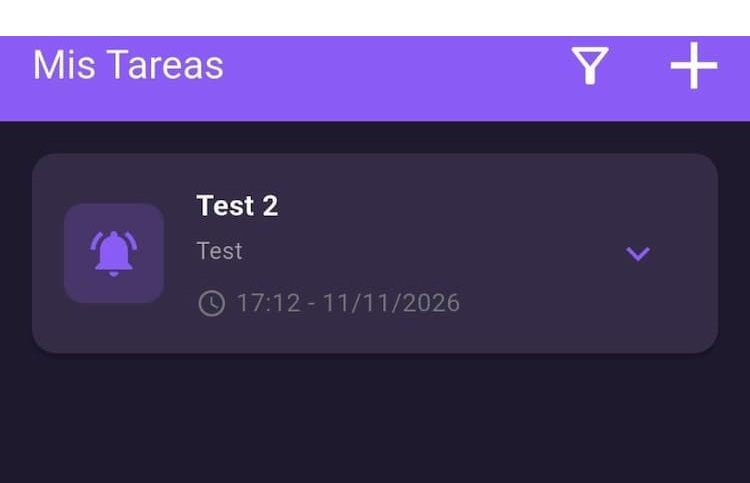
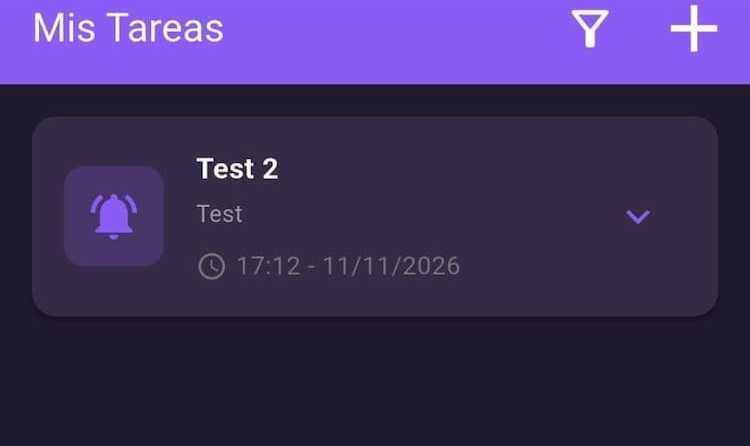
Improve mobile portfolio layouts
Refine responsive styles for narrow screens across the home, about, and projects pages. Simplify the brand label and refresh the Todo app preview image.

diff --git a/about/about.css b/about/about.css
@@ -1,3 +1,4 @@
 .about-page{padding:4.5rem 0 5.5rem}.about-hero{padding:0 0 3.5rem}.about-hero .eyebrow{margin-bottom:1rem}.about-hero h1{max-width:54rem;margin:0 0 1.25rem;font-size:clamp(3.5rem,8vw,6.4rem)}.about-lead{max-width:47rem;margin:0;color:var(--muted);font-size:1.12rem;line-height:1.8}.about-overview{display:grid;grid-template-columns:1.3fr .7fr;gap:clamp(2rem,7vw,6rem);padding:2.5rem 0;border-top:1px solid var(--line);border-bottom:1px solid var(--line)}.about-overview>div>p:not(.eyebrow){max-width:45rem;margin:0;color:var(--muted);font-size:1rem;line-height:1.85}.about-overview>div>p+p{margin-top:1rem}.about-facts{display:grid;align-content:start;gap:1.2rem;margin:0}.about-facts>div{padding-bottom:1rem;border-bottom:1px solid rgba(255,255,255,.16)}.about-facts dt{margin-bottom:.35rem;color:var(--subtle);font:500 .68rem 'DM Mono',monospace;text-transform:uppercase;letter-spacing:.08em}.about-facts dd{margin:0;color:var(--text);font-size:.94rem;line-height:1.6}.about-facts a{color:var(--violet)}.about-contact{display:flex;justify-content:space-between;align-items:center;gap:2rem;margin-top:2.5rem;padding:1.8rem 2rem;border:1px solid rgba(255,255,255,.3);border-radius:1.5rem;background:linear-gradient(135deg,rgba(255,255,255,.16),rgba(255,255,255,.05) 55%,rgba(151,178,255,.1));backdrop-filter:blur(30px) saturate(170%);-webkit-backdrop-filter:blur(30px) saturate(170%);box-shadow:inset 0 1px rgba(255,255,255,.42),0 1rem 3rem rgba(5,8,25,.18)}.about-contact .eyebrow{margin-bottom:.65rem}.about-contact h2{margin:0 0 .55rem;font-size:clamp(1.6rem,3vw,2.25rem);line-height:1.15;letter-spacing:-.06em}.about-email{color:var(--muted);font-size:.96rem}.about-email span{color:var(--violet)}.about-contact .button{flex:none}
 @media(max-width:700px){.about-page{padding:3.5rem 0 4.5rem}.about-hero{padding-bottom:2.5rem}.about-hero h1{font-size:clamp(3.1rem,12vw,4.8rem)}.about-lead{font-size:1rem}.about-overview{grid-template-columns:1fr;gap:2rem;padding:1.8rem 0}.about-facts{grid-template-columns:1fr 1fr;gap:1rem}.about-facts>div:last-child{grid-column:1/-1}.about-contact{align-items:flex-start;flex-direction:column;margin-top:2rem;padding:1.4rem;border-radius:1.3rem}.about-contact .button{margin-top:.25rem}}
 @media(max-width:380px){.about-hero h1{font-size:2.8rem}.about-facts{grid-template-columns:1fr}.about-facts>div:last-child{grid-column:auto}}
+@media(max-width:480px){.about-hero h1{font-size:clamp(2.75rem,13vw,4rem)}.about-contact{gap:1rem;padding:1.1rem}.about-email{overflow-wrap:anywhere}}

diff --git a/styles.css b/styles.css
@@ -20,3 +20,7 @@
 @media(max-width:700px){.hero-art{display:none}}
 .project-info h3{margin-top:.1rem}.site-nav,.eyebrow,.hero-intro,.button,.text-link,.project-number,.project-description,.project-meta,.site-footer{font-size:calc(1em + 1px)}.brand{font-size:1rem}.project-info h3{font-size:2.4rem}
 .site-footer{font-size:.72rem!important}
+/* Keep every navigation item available while making the header fit narrow phones. */
+@media(max-width:700px){.page-shell{width:min(calc(100% - 2rem),40rem)}.site-header{gap:.55rem}.brand{flex:0 0 auto;white-space:nowrap}.site-nav{flex:0 1 auto;justify-content:flex-end;gap:clamp(.35rem,2vw,.75rem);font-size:clamp(.62rem,2.3vw,.72rem)}.site-nav .nav-link{white-space:nowrap}.nav-link--github{display:inline-flex}.hero-actions{flex-wrap:wrap;row-gap:.8rem}.section-heading{gap:1rem}.site-footer{align-items:flex-start}}
+@media(max-width:480px){.page-shell{width:calc(100% - 1.25rem)}.site-header{height:auto;min-height:3.8rem;padding:.55rem .6rem;border-radius:1.15rem}.site-nav{gap:.38rem;font-size:.7rem}.hero{min-height:0;padding-top:3.5rem}.hero h1{font-size:clamp(2.85rem,13.5vw,4.1rem)}.hero-intro{font-size:1rem;line-height:1.7}.hero-actions{gap:.9rem}.work-section{padding:2.8rem 0 4rem}.section-heading h2{font-size:clamp(2.4rem,11vw,3.6rem)}.project-card--home .project-preview--image{aspect-ratio:16/9}.project-card--home .project-preview--image>.home-project-image.is-visible{object-fit:contain;object-position:center}.project-card--home .project-info{min-height:0;padding:1.15rem}.project-info h3{font-size:clamp(1.8rem,8vw,2.3rem);margin:.25rem 0 .65rem}.project-description{font-size:.94rem;line-height:1.65}.project-meta{flex-wrap:wrap;gap:.55rem;font-size:.68rem}.site-footer{gap:.7rem;padding:1.2rem 0 1.5rem;font-size:.68rem!important}.site-footer span:first-child{white-space:nowrap}}
+@media(max-width:340px){.page-shell{width:calc(100% - 1rem)}.site-header{display:grid;grid-template-columns:minmax(0,1fr);justify-items:stretch;gap:.45rem;padding:.6rem .7rem}.brand{font-size:.9rem}.site-nav{width:100%;justify-content:space-between;gap:.2rem;font-size:.72rem}.hero h1{font-size:2.7rem}.hero-actions{width:100%;justify-content:space-between;flex-wrap:nowrap;gap:.6rem}.hero-actions .button{gap:.55rem;padding:.7rem .72rem .7rem .9rem;font-size:.72rem;white-space:nowrap}.hero-actions .text-link{font-size:.82rem;white-space:nowrap}.button{padding:.75rem .9rem;font-size:.78rem}.project-meta{font-size:.63rem}}

diff --git a/projects/projects.css b/projects/projects.css
@@ -26,3 +26,5 @@
 .project-detail .back-link{font-size:.72rem!important}.site-footer{font-size:.62rem!important}
 .project-detail .back-link{font-size:.82rem!important}.site-footer{font-size:.72rem!important}
 .site-footer{font-size:.72rem!important}
+@media(max-width:480px){.project-detail{padding:2.7rem 0 4rem}.project-detail h1{font-size:clamp(2.8rem,13vw,4rem);overflow-wrap:anywhere}.project-lead{margin-bottom:2rem;font-size:1rem;line-height:1.65}.back-link{margin-bottom:2rem}.detail-panel{gap:1.4rem;padding:1.1rem;border-radius:1.35rem}.detail-main h2{font-size:clamp(1.75rem,8vw,2.3rem)}.detail-main>p:last-child{font-size:.95rem;line-height:1.7}.detail-side{gap:1rem}.detail-side>div{font-size:.9rem}.detail-links{gap:.65rem!important}.gallery-controls button{width:2rem;height:2rem}.gallery-viewport.is-carousel #gallery-prev{left:4px}.gallery-viewport.is-carousel #gallery-next{right:4px}.project-catalog>h1{font-size:clamp(2.8rem,13vw,4rem)}.project-card--compact .project-meta{gap:.45rem;font-size:.64rem}}
+@media(max-width:340px){.detail-panel{padding:.85rem;border-radius:1.15rem}.gallery-track{gap:.4rem}.gallery-track .gallery-frame{flex-basis:calc((100% - .4rem)/2)}.gallery-viewport.is-carousel .gallery-controls button{width:1.8rem;height:1.8rem;font-size:1rem}.project-catalog .catalog-heading h2{font-size:1.8rem}}

diff --git a/about/about.html b/about/about.html
@@ -14,7 +14,7 @@
   <body>
     <div class="page-shell">
       <header class="site-header">
-        <a class="brand" href="../index.html" aria-label="Alejandro portfolio home"><span class="brand-mark" aria-hidden="true">A</span><span>Alejandro · Portfolio</span></a>
+        <a class="brand" href="../index.html" aria-label="Alejandro portfolio home"><span class="brand-mark" aria-hidden="true">A</span><span>Alejandro</span></a>
         <nav class="site-nav" aria-label="Main navigation">
           <a class="nav-link" href="../index.html">Home</a>
           <a class="nav-link is-active" href="about.html">About</a>

diff --git a/projects/projects.html b/projects/projects.html
@@ -15,7 +15,7 @@
   <body>
     <div class="page-shell">
       <header class="site-header">
-        <a class="brand" href="../index.html" aria-label="Alejandro portfolio home"><span class="brand-mark" aria-hidden="true">A</span><span>Alejandro · Portfolio</span></a>
+        <a class="brand" href="../index.html" aria-label="Alejandro portfolio home"><span class="brand-mark" aria-hidden="true">A</span><span>Alejandro</span></a>
         <nav class="site-nav" aria-label="Main navigation">
           <a class="nav-link" href="../index.html">Home</a>
           <a class="nav-link" href="../about/about.html">About</a>

diff --git a/index.html b/index.html
@@ -16,7 +16,7 @@
       <header class="site-header">
         <a class="brand" href="index.html" aria-label="Alejandro home">
           <span class="brand-mark" aria-hidden="true">A</span>
-          <span>Alejandro · Portfolio</span>
+          <span>Alejandro</span>
         </a>
 
         <nav class="site-nav" aria-label="Main navigation">
